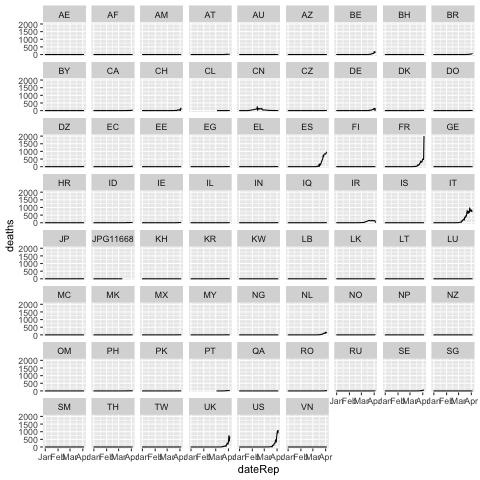
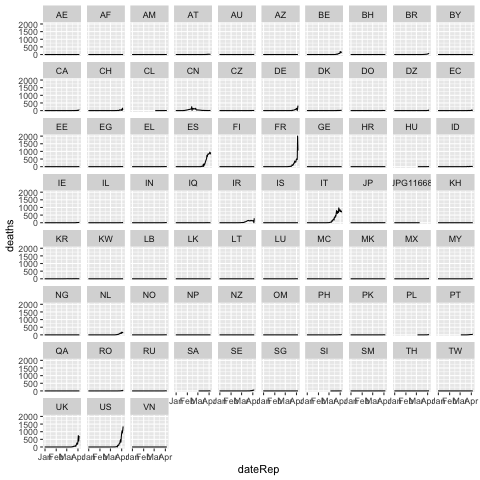
daily commit

diff --git a/README.md b/README.md
@@ -11,29 +11,29 @@ I'll keep this repo with the graphs daily updated.
 
 *Obtained with the script* `propagationMap.R`
 
-### Updated World Values - 2020/04/04
+### Updated World Values - 2020/04/05
 __Total Deaths per Country - worst 10__
 
 |geoId | deaths|
 |:-----|------:|
-|IT    |  14681|
-|ES    |  10935|
-|US    |   7157|
-|FR    |   6507|
-|UK    |   3605|
-|CN    |   3330|
-|IR    |   3160|
-|NL    |   1487|
-|BE    |   1143|
-|DE    |   1017|
+|IT    |  15362|
+|ES    |  11744|
+|US    |   8501|
+|FR    |   7560|
+|UK    |   4313|
+|IR    |   3452|
+|CN    |   3333|
+|NL    |   1651|
+|DE    |   1342|
+|BE    |   1283|
 
-__Total Death Count__: 58142
+__Total Death Count__: 64400
 
-__Portugal in Detail at 2020/04/04__ *sourced from https://www.worldometers.info/*
+__Portugal in Detail at 2020/04/05__ *sourced from https://www.worldometers.info/*
 
-|Country,Other |TotalCases |NewCases |TotalDeaths | NewDeaths|TotalRecovered |ActiveCases |Serious,Critical |Tot Cases/1M pop | Deaths/1M pop|TotalTests |Tests/1M pop |
-|:-------------|:----------|:--------|:-----------|---------:|:--------------|:-----------|:----------------|:----------------|-------------:|:----------|:------------|
-|Portugal      |9,886      |         |246         |        NA|68             |9,572       |245              |970              |            24|74,377     |7,294        |
+|Country,Other |TotalCases |NewCases |TotalDeaths |NewDeaths |TotalRecovered |ActiveCases |Serious,Critical |Tot Cases/1M pop | Deaths/1M pop|TotalTests |Tests/1M pop |
+|:-------------|:----------|:--------|:-----------|:---------|:--------------|:-----------|:----------------|:----------------|-------------:|:----------|:------------|
+|Portugal      |11,278     |+754     |295         |+29       |75             |10,908      |267              |1,106            |            29|86,370     |8,470        |
 
 
 ### Scripts
